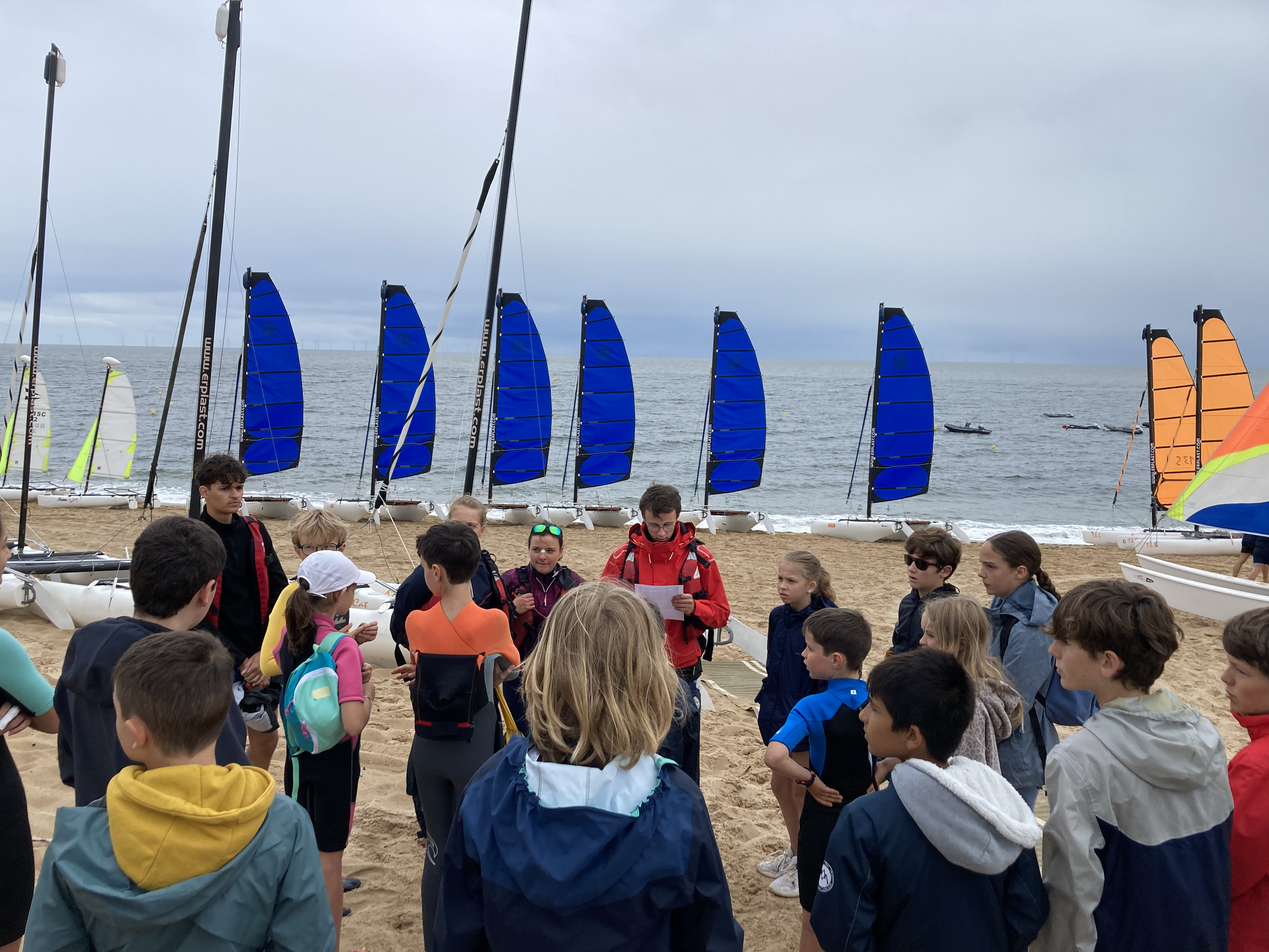
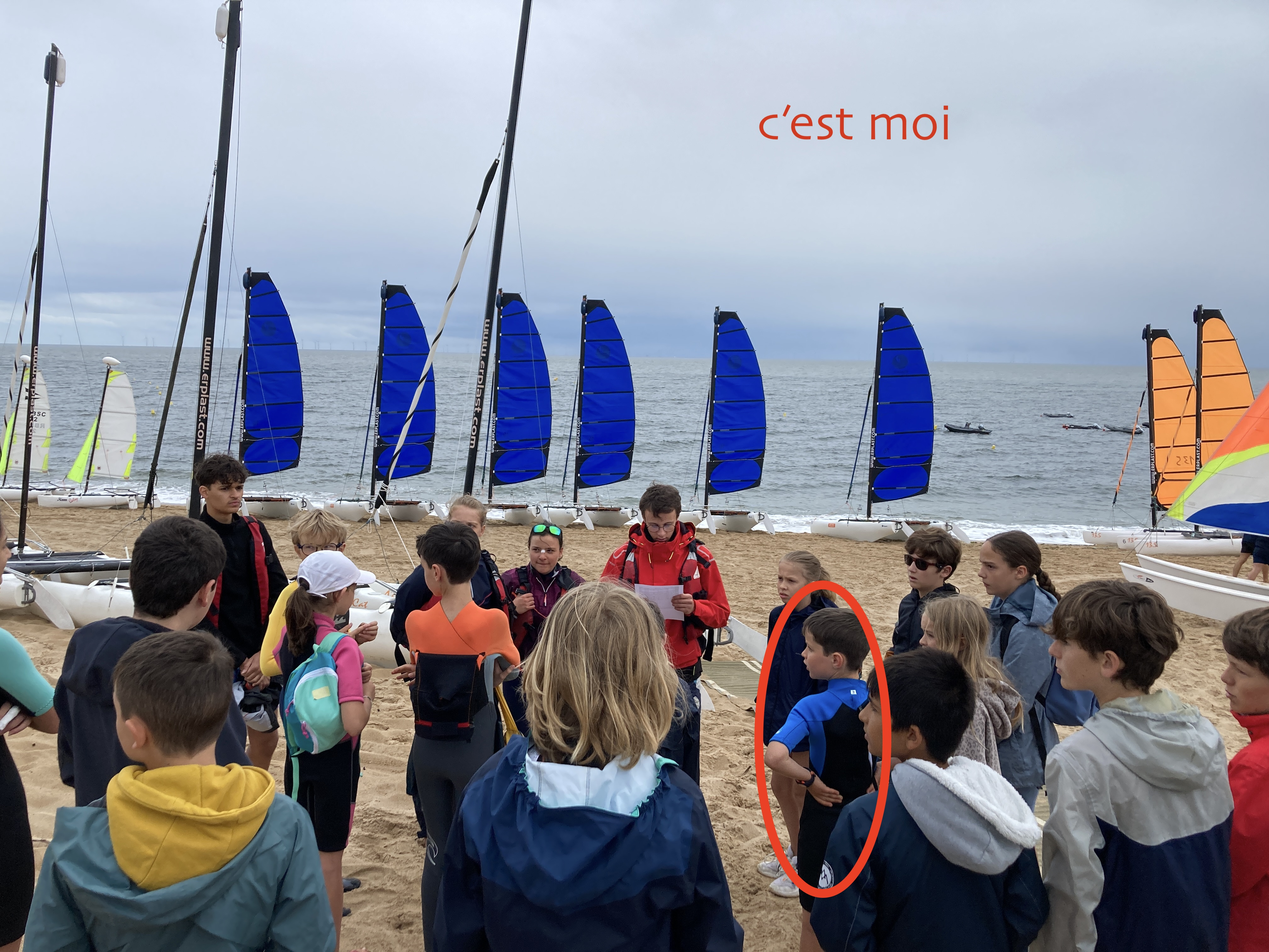
je me suis entourer en rouge

Changed region(s): [[0.5938, 0.5906, 0.7188, 0.9636], [0.5938, 0.1243, 0.75, 0.1554], [0.2188, 0.6839, 0.2812, 0.746]]

diff --git a/source/_posts/2024-07-09.md b/source/_posts/2024-07-09.md
@@ -1,0 +1,17 @@
+---
+title: le cirque
+date: 2024/07/09 14:00:00
+---
+
+Se matin je vait aller faire du catamaran avec ma sœur mais il pleu une averse.
+Après ça je vait jouer à brawl star.
+Mon brawler préférer est draco, colt, corbac et léon.
+
+![Demarrage du cours](images/2024-07-08/cata.jpg)
+
+Au catamaran on était les dèrnier mais on est aller telement viter qu'on est devenu premier.
+Jeudi ma maman vient nous voire au catamaran à l'école de voil.
+Camille est tomber du tourniquai parce quelle s'acrochai pas.
+J'ai eu très froid et mal au pied ducoup j'ai pris une douche chaude à la  fin du cour .
+
+
